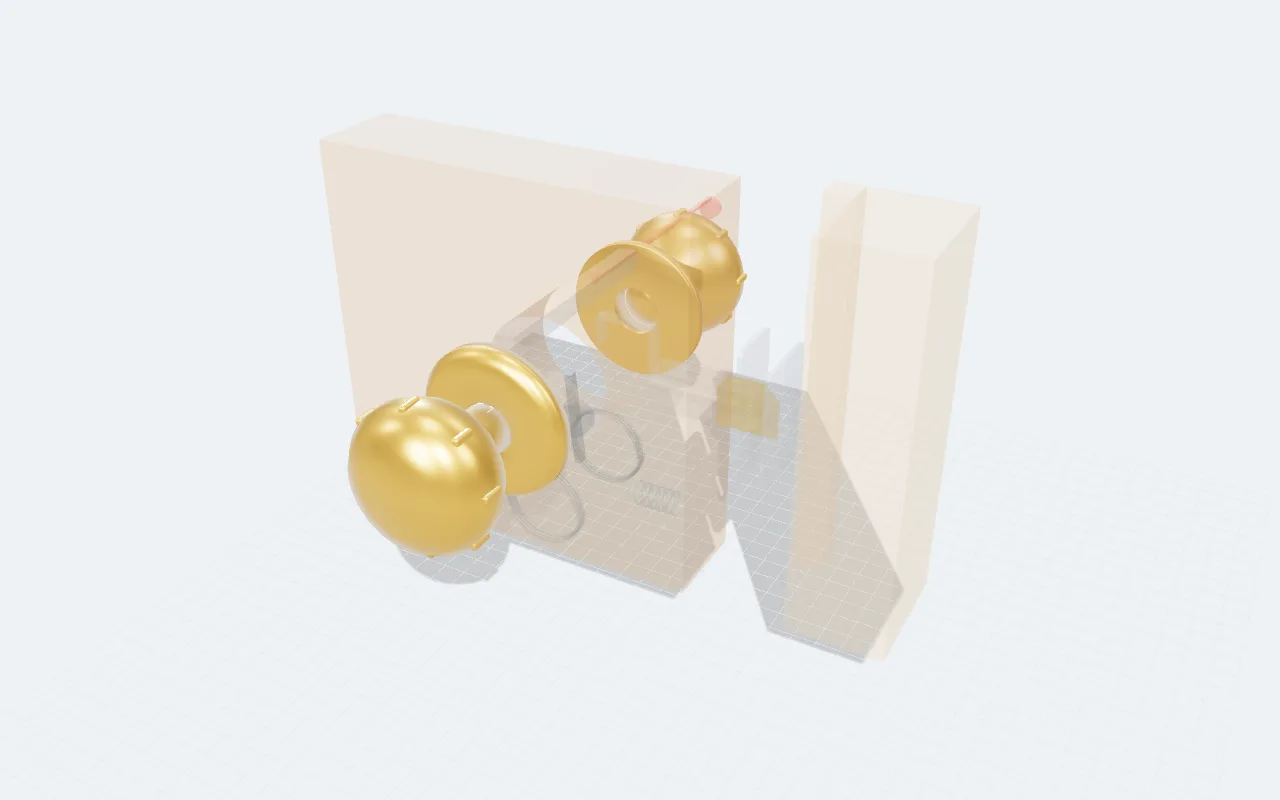
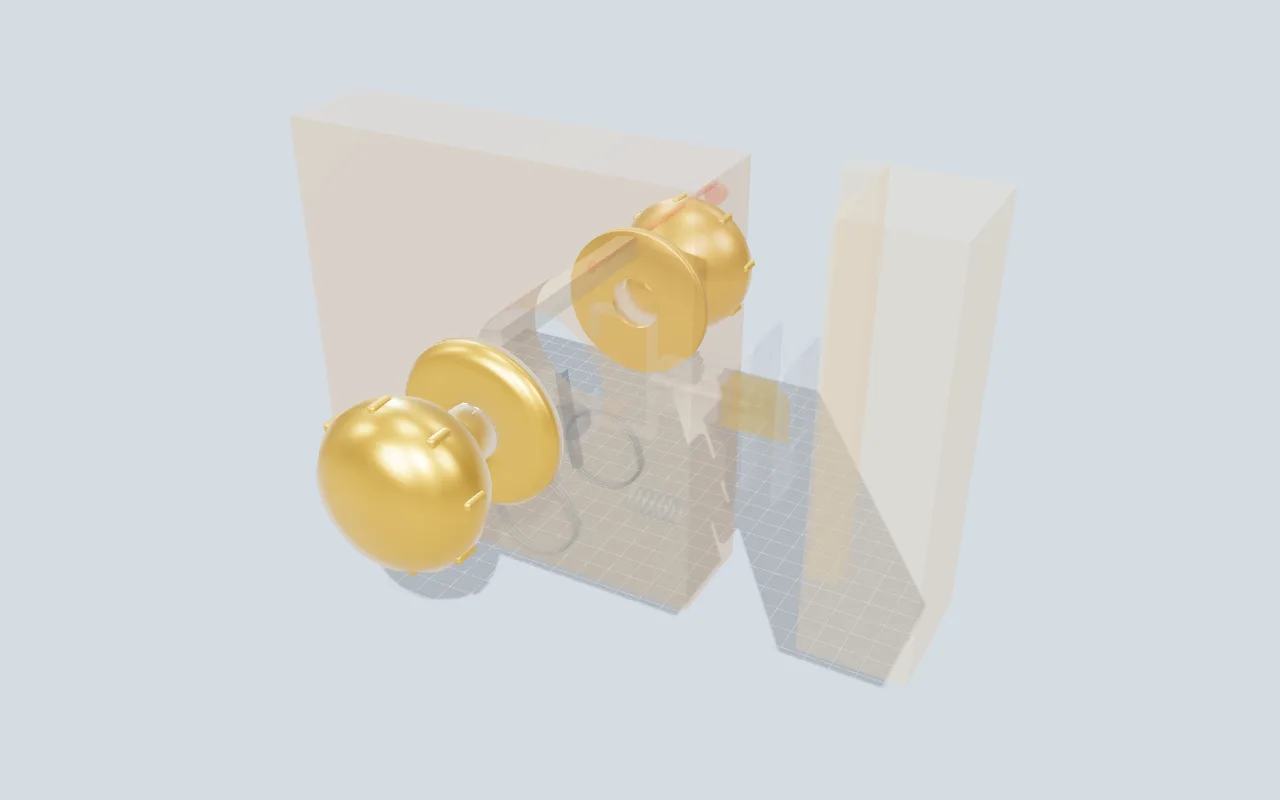
WIP: fallback font metrics and thumbnail updates
Claude-Session: https://claude.ai/code/session_01Rnm5Yy74DnvbUhFobDVBNW

diff --git a/src/base.css b/src/base.css
@@ -1,13 +1,14 @@
 /* Metric-matched fallbacks: until the web fonts arrive, local Arial/Courier take the same
    width and line height, so text does not reflow when they swap in. Measured against the
-   Google Fonts builds; Syne gets wider as it gets bolder, hence one face per weight. The 800
-   face matches width (no reflow) at the cost of taller glyphs for the moment before Syne loads. */
+   Google Fonts builds; Syne gets wider as it gets bolder, hence one face per weight.
+   Syne 800 is ~1.65x as wide as Arial Bold; scaling that far would push capitals out of a
+   line-height: 1 box, so the 800 face caps at 115% (capitals fit) and prefers wider Arial Black. */
 @font-face { font-family: "Syne Fallback"; font-weight: 600; src: local("Arial Bold"), local("Arial-BoldMT"), local("Helvetica Bold"), local("Liberation Sans Bold");
   size-adjust: 104.3%; ascent-override: 88.7%; descent-override: 26.4%; line-gap-override: 0%; }
 @font-face { font-family: "Syne Fallback"; font-weight: 700; src: local("Arial Bold"), local("Arial-BoldMT"), local("Helvetica Bold"), local("Liberation Sans Bold");
   size-adjust: 113.5%; ascent-override: 81.5%; descent-override: 24.2%; line-gap-override: 0%; }
-@font-face { font-family: "Syne Fallback"; font-weight: 800; src: local("Arial Bold"), local("Arial-BoldMT"), local("Helvetica Bold"), local("Liberation Sans Bold");
-  size-adjust: 165.7%; ascent-override: 55.8%; descent-override: 16.6%; line-gap-override: 0%; }
+@font-face { font-family: "Syne Fallback"; font-weight: 800; src: local("Arial Black"), local("Arial-Black"), local("Arial Bold"), local("Arial-BoldMT"), local("Helvetica Bold"), local("Liberation Sans Bold");
+  size-adjust: 115%; ascent-override: 80.4%; descent-override: 23.9%; line-gap-override: 0%; }
 @font-face { font-family: "IBM Plex Sans Fallback"; src: local("Arial"), local("ArialMT"), local("Helvetica"), local("Liberation Sans");
   size-adjust: 100.7%; ascent-override: 101.8%; descent-override: 27.3%; line-gap-override: 0%; }
 @font-face { font-family: "IBM Plex Mono Fallback"; src: local("Courier New"), local("CourierNewPSMT"), local("Liberation Mono");

diff --git a/index.html b/index.html
@@ -27,8 +27,9 @@
   <link rel="stylesheet" href="/src/base.css">
   <style>
     /* Page-local text copper: the light --copper is 3.7:1 on white, below AA for small text. */
-    :root { --copper-text: #A2562A; }
-    @media (prefers-color-scheme: dark) { :root { --copper-text: var(--copper); } }
+    :root { --copper-text: #A2562A; --thumb-bg: #D5DCE3; }
+    /* --thumb-bg matches the backdrop the light model renders were captured on. */
+    @media (prefers-color-scheme: dark) { :root { --copper-text: var(--copper); --thumb-bg: var(--bg); } }
     .wrap { max-width: 1120px; margin: 0 auto; padding: 40px 16px 56px; }
     @media (min-width: 640px) { .wrap { padding: 56px 24px 64px; } }
     h1 { font: 800 clamp(40px, 8vw, 72px)/1 var(--font-display, "Syne", sans-serif); margin: 12px 0 16px; letter-spacing: -.02em; }
@@ -46,7 +47,7 @@
     }
     .card:hover { border-color: var(--accent); }
     .card:focus-visible { outline: 2px solid var(--accent); outline-offset: 3px; border-color: var(--accent); }
-    .thumb { display: block; aspect-ratio: 16 / 10; background: var(--bg); border-bottom: 1px solid var(--line); overflow: hidden; }
+    .thumb { display: block; aspect-ratio: 16 / 10; background: var(--thumb-bg); border-bottom: 1px solid var(--line); overflow: hidden; }
     .thumb img { display: block; width: 100%; height: 100%; object-fit: cover; transition: transform .4s ease; }
     .card:hover .thumb img { transform: scale(1.03); }
     @media (prefers-reduced-motion: reduce) { .card:hover .thumb img { transform: none; } }
